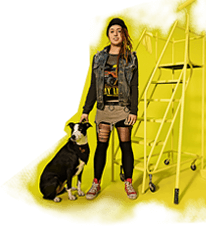
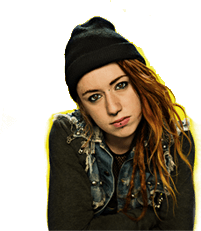
Update design

diff --git a/2017/2017-11/2017-11-24_2/source/300x600.css b/2017/2017-11/2017-11-24_2/source/300x600.css
@@ -481,7 +481,7 @@
   animation: hideContent 10ms ease-in-out 0s forwards; 
 }
 .bg {
-  background: #d5cc0d;
+  background: url('./images/300x600_bg.png') no-repeat center center;
   background-size: 100% auto;
 
   -webkit-animation: fadeIn 0.75s ease-in-out 0.75s forwards;
@@ -502,13 +502,13 @@
 .person {
   background: url('./images/300x600_person.png') no-repeat center center;
   width: 300px;
-  height: 537px;
-  top: 26px;
+  height: 473px;
+  top: 73px;
   right: 0px;
 
-  -webkit-transform-origin: 100% 0%;
-  -moz-transform-origin: 100% 0%;
-  transform-origin: 100% 0%;
+  -webkit-transform-origin: 50% 100%;
+  -moz-transform-origin: 50% 100%;
+  transform-origin: 50% 100%;
 
   -webkit-animation: zoomIn 1.25s ease-in-out 0.75s forwards;
   -moz-animation: zoomIn 1.25s ease-in-out 0.75s forwards;

diff --git a/2017/2017-11/2017-11-24_2/source/320x50.css b/2017/2017-11/2017-11-24_2/source/320x50.css
@@ -503,14 +503,14 @@
 .person {
   background: url('./images/320x50_person.png') no-repeat center center;
   background-size: auto 100%;
-  width: 77px;
-  height: 50px;
-  top: 0px;
-  left: 92px;
+  width: 89px;
+  height: 85px;
+  top: -15px;
+  left: 86px;
 
-  -webkit-transform-origin: 50% 20%;
-  -moz-transform-origin: 50% 20%;
-  transform-origin: 50% 20%;
+  -webkit-transform-origin: 50% 100%;
+  -moz-transform-origin: 50% 100%;
+  transform-origin: 50% 100%;
 
   -webkit-animation: zoomIn 1.25s ease-in-out 0.75s forwards;
   -moz-animation: zoomIn 1.25s ease-in-out 0.75s forwards;

diff --git a/2017/2017-11/2017-11-24_2/source/728x90.css b/2017/2017-11/2017-11-24_2/source/728x90.css
@@ -501,14 +501,14 @@
 }
 .person {
   background: url('./images/728x90_person.png') no-repeat center center;
-  width: 134px;
-  height: 90px;
-  top: 0px;
-  left: 212px;
+  width: 189px;
+  height: 169px;
+  top: -34px;
+  left: 164px;
 
-  -webkit-transform-origin: 50% 20%;
-  -moz-transform-origin: 50% 20%;
-  transform-origin: 50% 20%;
+  -webkit-transform-origin: 50% 100%;
+  -moz-transform-origin: 50% 100%;
+  transform-origin: 50% 100%;
 
   -webkit-animation: zoomIn 1.25s ease-in-out 0.75s forwards;
   -moz-animation: zoomIn 1.25s ease-in-out 0.75s forwards;

diff --git a/2017/2017-11/2017-11-24_2/source/300x250_m.css b/2017/2017-11/2017-11-24_2/source/300x250_m.css
@@ -501,14 +501,14 @@
 }
 .person {
   background: url('./images/300x250_m_person.png') no-repeat center center;
-  width: 206px;
-  height: 227px;
-  top: 0px;
+  width: 201px;
+  height: 231px;
+  bottom: 0px;
   right: 0px;
 
-  -webkit-transform-origin: 100% 0%;
-  -moz-transform-origin: 100% 0%;
-  transform-origin: 100% 0%;
+  -webkit-transform-origin: 50% 100%;
+  -moz-transform-origin: 50% 100%;
+  transform-origin: 50% 100%;
 
   -webkit-animation: zoomIn 1.25s ease-in-out 0.75s forwards;
   -moz-animation: zoomIn 1.25s ease-in-out 0.75s forwards;

diff --git a/2017/2017-11/2017-11-24_2/source/300x250.css b/2017/2017-11/2017-11-24_2/source/300x250.css
@@ -501,14 +501,14 @@
 }
 .person {
   background: url('./images/300x250_person.png') no-repeat center center;
-  width: 206px;
+  width: 203px;
   height: 227px;
   top: 0px;
   right: 0px;
 
-  -webkit-transform-origin: 100% 0%;
-  -moz-transform-origin: 100% 0%;
-  transform-origin: 100% 0%;
+  -webkit-transform-origin: 50% 100%;
+  -moz-transform-origin: 50% 100%;
+  transform-origin: 50% 100%;
 
   -webkit-animation: zoomIn 1.25s ease-in-out 0.75s forwards;
   -moz-animation: zoomIn 1.25s ease-in-out 0.75s forwards;

diff --git a/2017/2017-11/2017-11-24/source/300x250.css b/2017/2017-11/2017-11-24/source/300x250.css
@@ -369,7 +369,7 @@
   }
   100% { 
     visibility: visible;
-    -webkit-transform: scale(1, 1);
+    -webkit-transform: scale(1.005, 1.005);
   }
 }
 @-moz-keyframes zoomOut {
@@ -379,7 +379,7 @@
   }
   100% { 
     visibility: visible;
-    -moz-transform: scale(1, 1);
+    -moz-transform: scale(1.005, 1.005);
   }
 }
 @keyframes zoomOut {
@@ -389,7 +389,7 @@
   }
   100% { 
     visibility: visible;
-    transform: scale(1, 1);
+    transform: scale(1.005, 1.005);
   }
 }
 

diff --git a/2017/2017-11/2017-11-24/source/300x250_mobile.css b/2017/2017-11/2017-11-24/source/300x250_mobile.css
@@ -369,7 +369,7 @@
   }
   100% { 
     visibility: visible;
-    -webkit-transform: scale(1, 1);
+    -webkit-transform: scale(1.005, 1.005);
   }
 }
 @-moz-keyframes zoomOut {
@@ -379,7 +379,7 @@
   }
   100% { 
     visibility: visible;
-    -moz-transform: scale(1, 1);
+    -moz-transform: scale(1.005, 1.005);
   }
 }
 @keyframes zoomOut {
@@ -389,7 +389,7 @@
   }
   100% { 
     visibility: visible;
-    transform: scale(1, 1);
+    transform: scale(1.005, 1.005);
   }
 }
 
